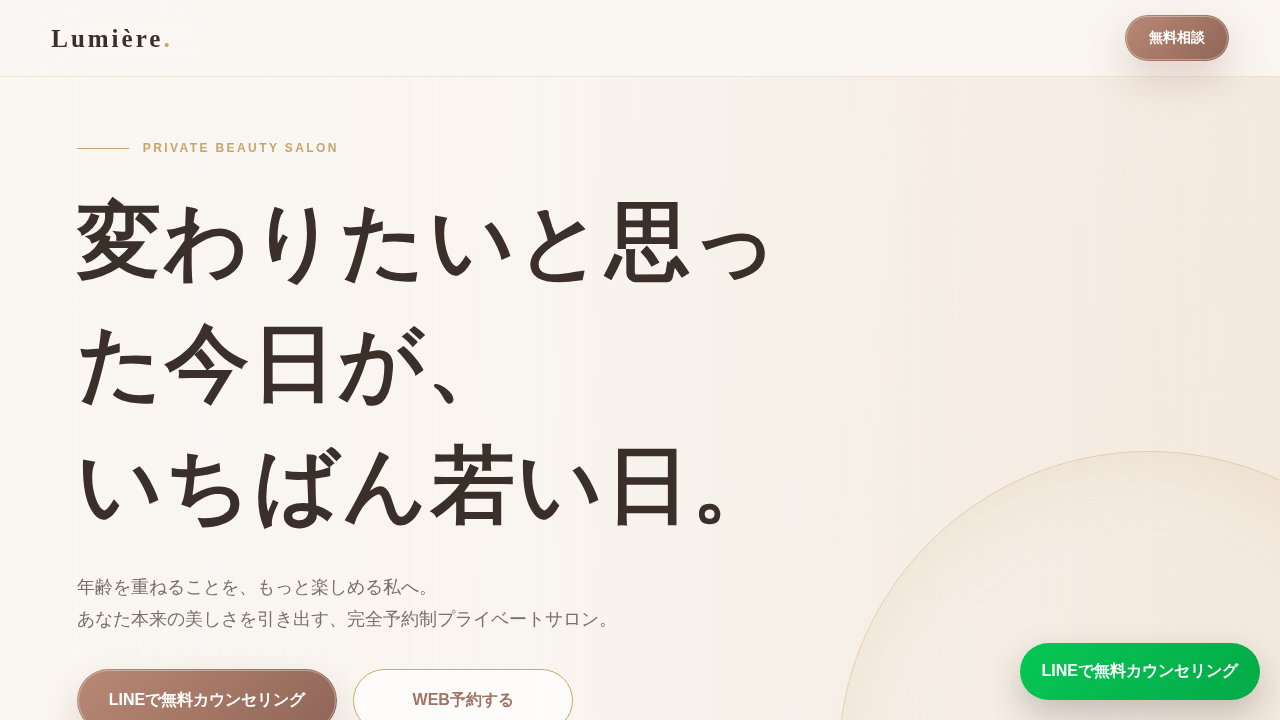
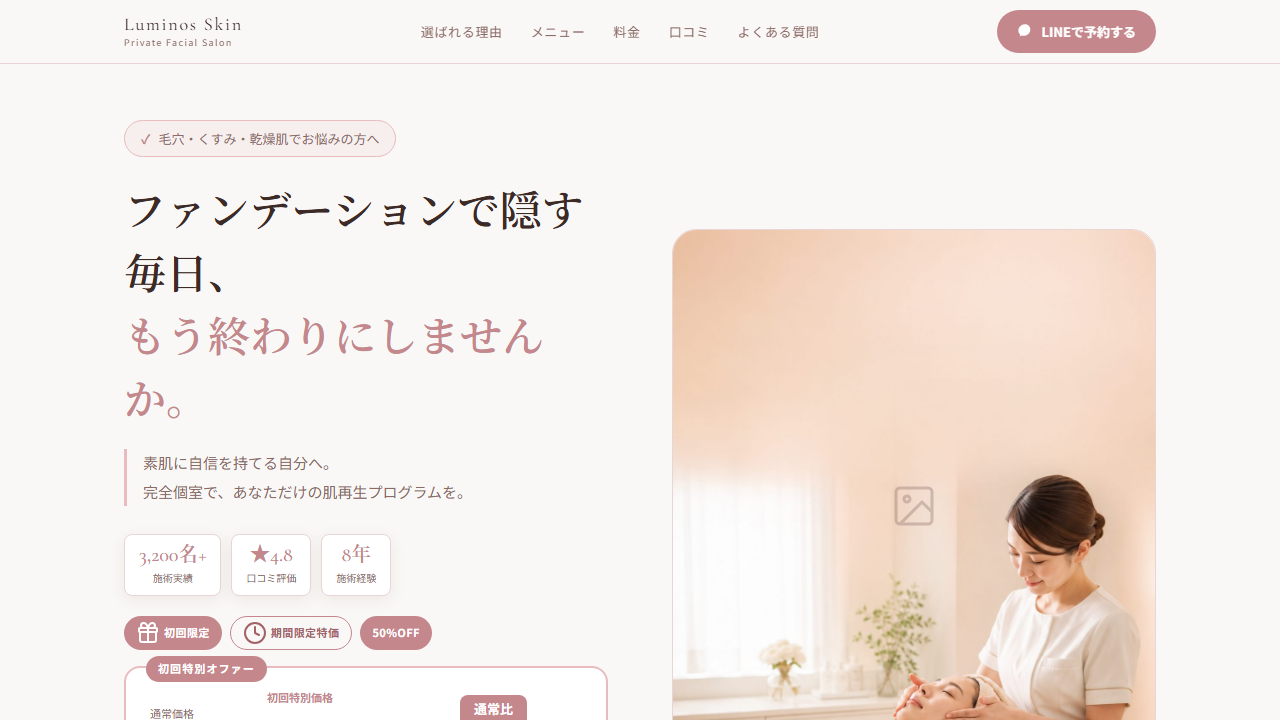
feat(portfolio): Luminos Skin を実績に追加・サムネイル更新
- index.html: トップ実績セクションに Luminos Skin カード追加（4枚目）
- works.html: 「Lumière Beauty Salon」→「Luminos Skin」に名称・説明更新
- thumbnails/beauty-salon-lp.png: Playwright で最新スクリーンショットに差し替え
- 制作実績カウント 12 → 13 に更新（index.html・works.html）

diff --git a/index.html b/index.html
@@ -198,7 +198,7 @@
     <!-- Stats -->
     <div class="rev d4 flex flex-wrap gap-10 mt-14" style="padding-top:32px;border-top:1px solid rgba(255,255,255,.06);">
       <div>
-        <p class="font-black text-white mb-0.5" style="font-size:2rem;line-height:1;">12<span class="text-accent text-[1.4rem]">+</span></p>
+        <p class="font-black text-white mb-0.5" style="font-size:2rem;line-height:1;">13<span class="text-accent text-[1.4rem]">+</span></p>
         <p class="text-[11.5px]" style="color:rgba(240,240,240,.38);">制作実績</p>
       </div>
       <div>
@@ -368,6 +368,23 @@
           <h3 class="font-bold text-white text-[15px] mb-1.5">TRATTORIA LUCENTE</h3>
           <p class="text-[12.5px] mb-4 leading-relaxed" style="color:rgba(240,240,240,.42);">薪火イタリアンのLP。動画ヒーロー・LINE予約・STORES予約対応。ダークラグジュアリーデザイン。</p>
           <a href="https://trattoria-lucente.vercel.app/" target="_blank" rel="noopener" class="inline-flex items-center gap-1.5 text-[12px] font-bold hover:text-white transition-colors" style="color:#818cf8;">
+            サイトを見る
+            <svg xmlns="http://www.w3.org/2000/svg" class="w-3.5 h-3.5" fill="none" viewBox="0 0 24 24" stroke="currentColor" stroke-width="2.5"><path stroke-linecap="round" stroke-linejoin="round" d="M10 6H6a2 2 0 00-2 2v10a2 2 0 002 2h10a2 2 0 002-2v-4M14 4h6m0 0v6m0-6L10 14"/></svg>
+          </a>
+        </div>
+      </div>
+
+      <!-- 04 Luminos Skin -->
+      <div class="rev ch rounded-2xl overflow-hidden" style="background:#111111;border:1px solid rgba(255,255,255,.06);">
+        <div class="relative overflow-hidden" style="aspect-ratio:16/9;">
+          <img src="./thumbnails/beauty-salon-lp.png" alt="Luminos Skin" style="width:100%;height:100%;object-fit:cover;object-position:top;display:block;">
+          <div class="tov absolute inset-0"></div>
+        </div>
+        <div class="p-5">
+          <p class="text-[10px] font-bold tracking-[.3em] uppercase mb-1.5" style="color:rgba(99,102,241,.65);">Facial Salon · 渋谷</p>
+          <h3 class="font-bold text-white text-[15px] mb-1.5">Luminos Skin</h3>
+          <p class="text-[12.5px] mb-4 leading-relaxed" style="color:rgba(240,240,240,.42);">プライベートフェイシャルサロンのLP。完全個室・女性スタッフのみ・勧誘なしを訴求。ピンク×ベージュのラグジュアリーデザイン。</p>
+          <a href="./beauty-salon-lp/" target="_blank" rel="noopener" class="inline-flex items-center gap-1.5 text-[12px] font-bold hover:text-white transition-colors" style="color:#818cf8;">
             サイトを見る
             <svg xmlns="http://www.w3.org/2000/svg" class="w-3.5 h-3.5" fill="none" viewBox="0 0 24 24" stroke="currentColor" stroke-width="2.5"><path stroke-linecap="round" stroke-linejoin="round" d="M10 6H6a2 2 0 00-2 2v10a2 2 0 002 2h10a2 2 0 002-2v-4M14 4h6m0 0v6m0-6L10 14"/></svg>
           </a>

diff --git a/works.html b/works.html
@@ -84,7 +84,7 @@
     <div class="rev in">
       <p class="slbl mb-3">Works</p>
       <h1 class="font-black text-white mb-3" style="font-size:clamp(1.8rem,4vw,2.8rem);">制作実績一覧</h1>
-      <p class="text-[13.5px]" style="color:rgba(240,240,240,.42);">LP制作からWebシステム構築まで、全<span class="text-white font-bold">12</span>作品を掲載しています。</p>
+      <p class="text-[13.5px]" style="color:rgba(240,240,240,.42);">LP制作からWebシステム構築まで、全<span class="text-white font-bold">13</span>作品を掲載しています。</p>
     </div>
   </div>
 </section>
@@ -176,16 +176,16 @@
         </div>
       </div>
 
-      <!-- 05 Lumière Beauty Salon -->
+      <!-- 05 Luminos Skin -->
       <div class="rev d1 ch rounded-2xl overflow-hidden" style="background:#111111;border:1px solid rgba(255,255,255,.06);">
         <div class="relative overflow-hidden" style="aspect-ratio:16/9;">
-          <img src="./thumbnails/beauty-salon-lp.png" alt="Lumière Beauty Salon" class="thumb-img">
+          <img src="./thumbnails/beauty-salon-lp.png" alt="Luminos Skin" class="thumb-img">
           <div class="tov absolute inset-0"></div>
         </div>
         <div class="p-5">
-          <p class="text-[10px] font-bold tracking-[.3em] uppercase mb-1.5" style="color:rgba(99,102,241,.65);">Beauty Salon · ラグジュアリー</p>
-          <h3 class="font-bold text-white text-[15px] mb-1.5">Lumière Beauty Salon</h3>
-          <p class="text-[12.5px] mb-4 leading-relaxed" style="color:rgba(240,240,240,.42);">高単価女性向けの美容サロンLP。クリーム×ゴールドの贅沢なラグジュアリーデザインで、お悩み訴求・Before/After・料金・ご来店の流れまで完備。</p>
+          <p class="text-[10px] font-bold tracking-[.3em] uppercase mb-1.5" style="color:rgba(99,102,241,.65);">Facial Salon · 渋谷</p>
+          <h3 class="font-bold text-white text-[15px] mb-1.5">Luminos Skin</h3>
+          <p class="text-[12.5px] mb-4 leading-relaxed" style="color:rgba(240,240,240,.42);">プライベートフェイシャルサロンのLP。完全個室・女性スタッフのみ・勧誘なしを訴求。ピンク×ベージュのラグジュアリーデザインで初回5,980円オファーまで一貫設計。</p>
           <a href="./beauty-salon-lp/" target="_blank" rel="noopener" class="inline-flex items-center gap-1.5 text-[12px] font-bold hover:text-white transition-colors" style="color:#818cf8;">
             サイトを見る
             <svg xmlns="http://www.w3.org/2000/svg" class="w-3.5 h-3.5" fill="none" viewBox="0 0 24 24" stroke="currentColor" stroke-width="2.5"><path stroke-linecap="round" stroke-linejoin="round" d="M10 6H6a2 2 0 00-2 2v10a2 2 0 002 2h10a2 2 0 002-2v-4M14 4h6m0 0v6m0-6L10 14"/></svg>